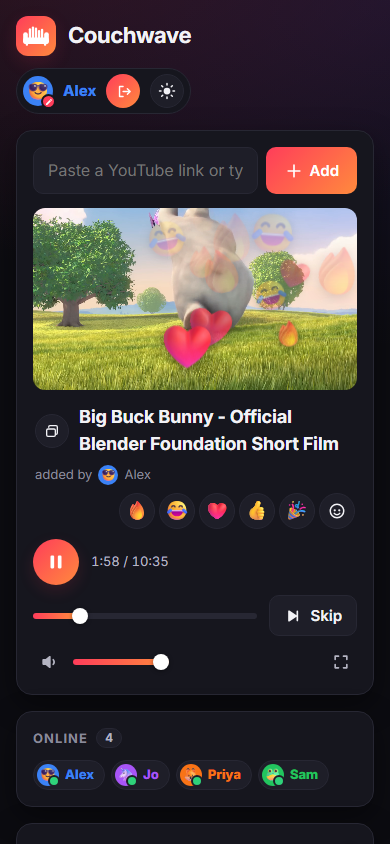
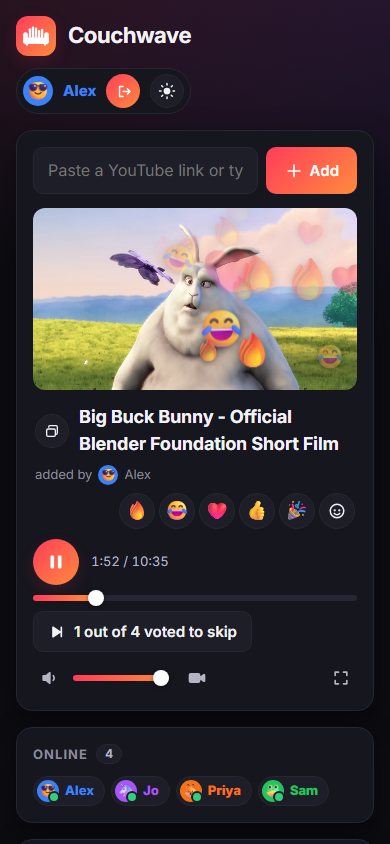
New screenshots: History, vote counts, no drag handles
Retaken with the current look (Big Buck Bunny and other Blender open
movies, the same made-up friends): History row with thumbnails, a skip
vote and a remove vote in progress, the queue without drag handles.
README credit and image description updated to match.

Claude-Session: https://claude.ai/code/session_01CRYPpC2x3DTKXkooKz6qDL

diff --git a/README.md b/README.md
@@ -8,7 +8,7 @@ Everyone opens the same page, adds YouTube links or song names to a shared queue
 sync for everybody, with chat and reactions on the side. You host it yourself; it needs only Node.js,
 yt-dlp and ffmpeg (no database, no npm packages).
 
-![Couchwave in a browser: a video playing with emoji reactions floating over it, the chat and online friends on the right, the activity log and queue below](docs/screenshot.png)
+![Couchwave in a browser: a video playing with emoji reactions floating over it, a skip vote in progress, the chat and online friends on the right, and below them the activity log, the history of songs played with thumbnails, and the queue](docs/screenshot.png)
 
 <details>
 <summary>On a phone</summary>
@@ -57,8 +57,8 @@ Ideas, bugs, or just saying hi: join our [Discord](https://discord.com/invite/pN
 
 ## Credits
 
-Vibe coded by [Matt Hoyle](https://matthoyle.me/) using Claude Opus 5.5. The screenshot shows
-[Big Buck Bunny](https://peach.blender.org/) © Blender Foundation, CC BY 3.0. The font is
+Vibe coded by [Matt Hoyle](https://matthoyle.me/) using Claude Opus 5.5. The screenshots show
+[Big Buck Bunny](https://peach.blender.org/) and other [Blender open movies](https://studio.blender.org/films/), © Blender Foundation, CC BY. The font is
 [Inter](https://rsms.me/inter/) (SIL Open Font License, `fonts/OFL.txt`), included so the site never loads
 anything from Google.
 
